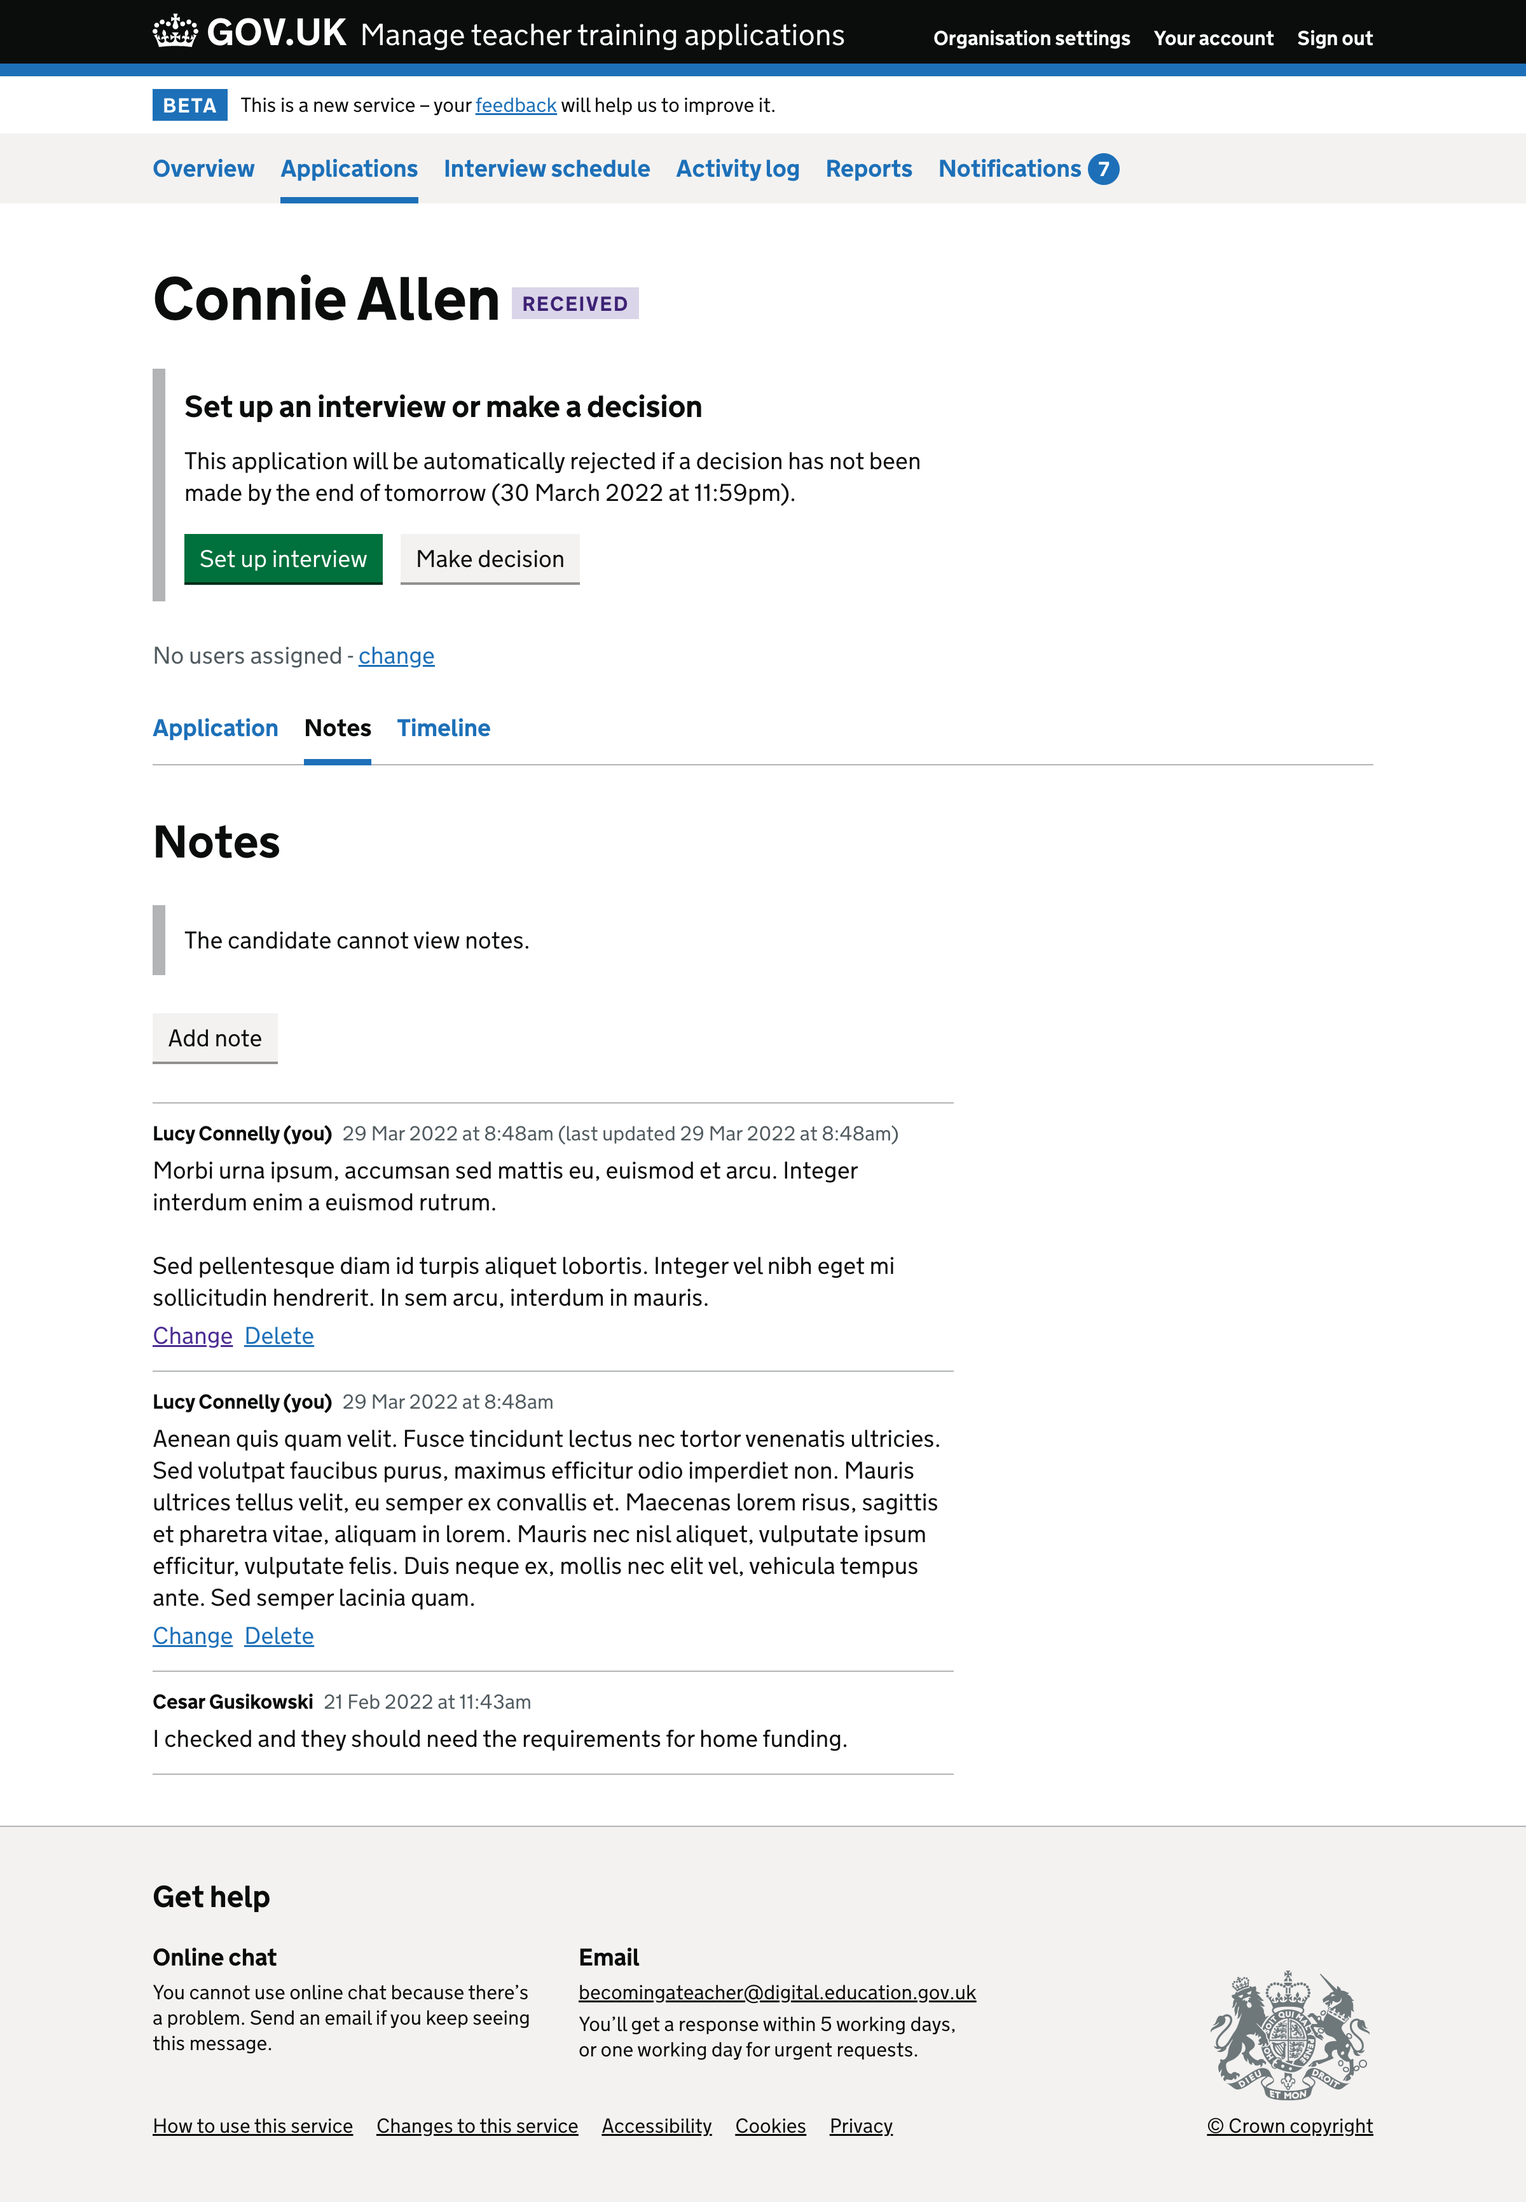
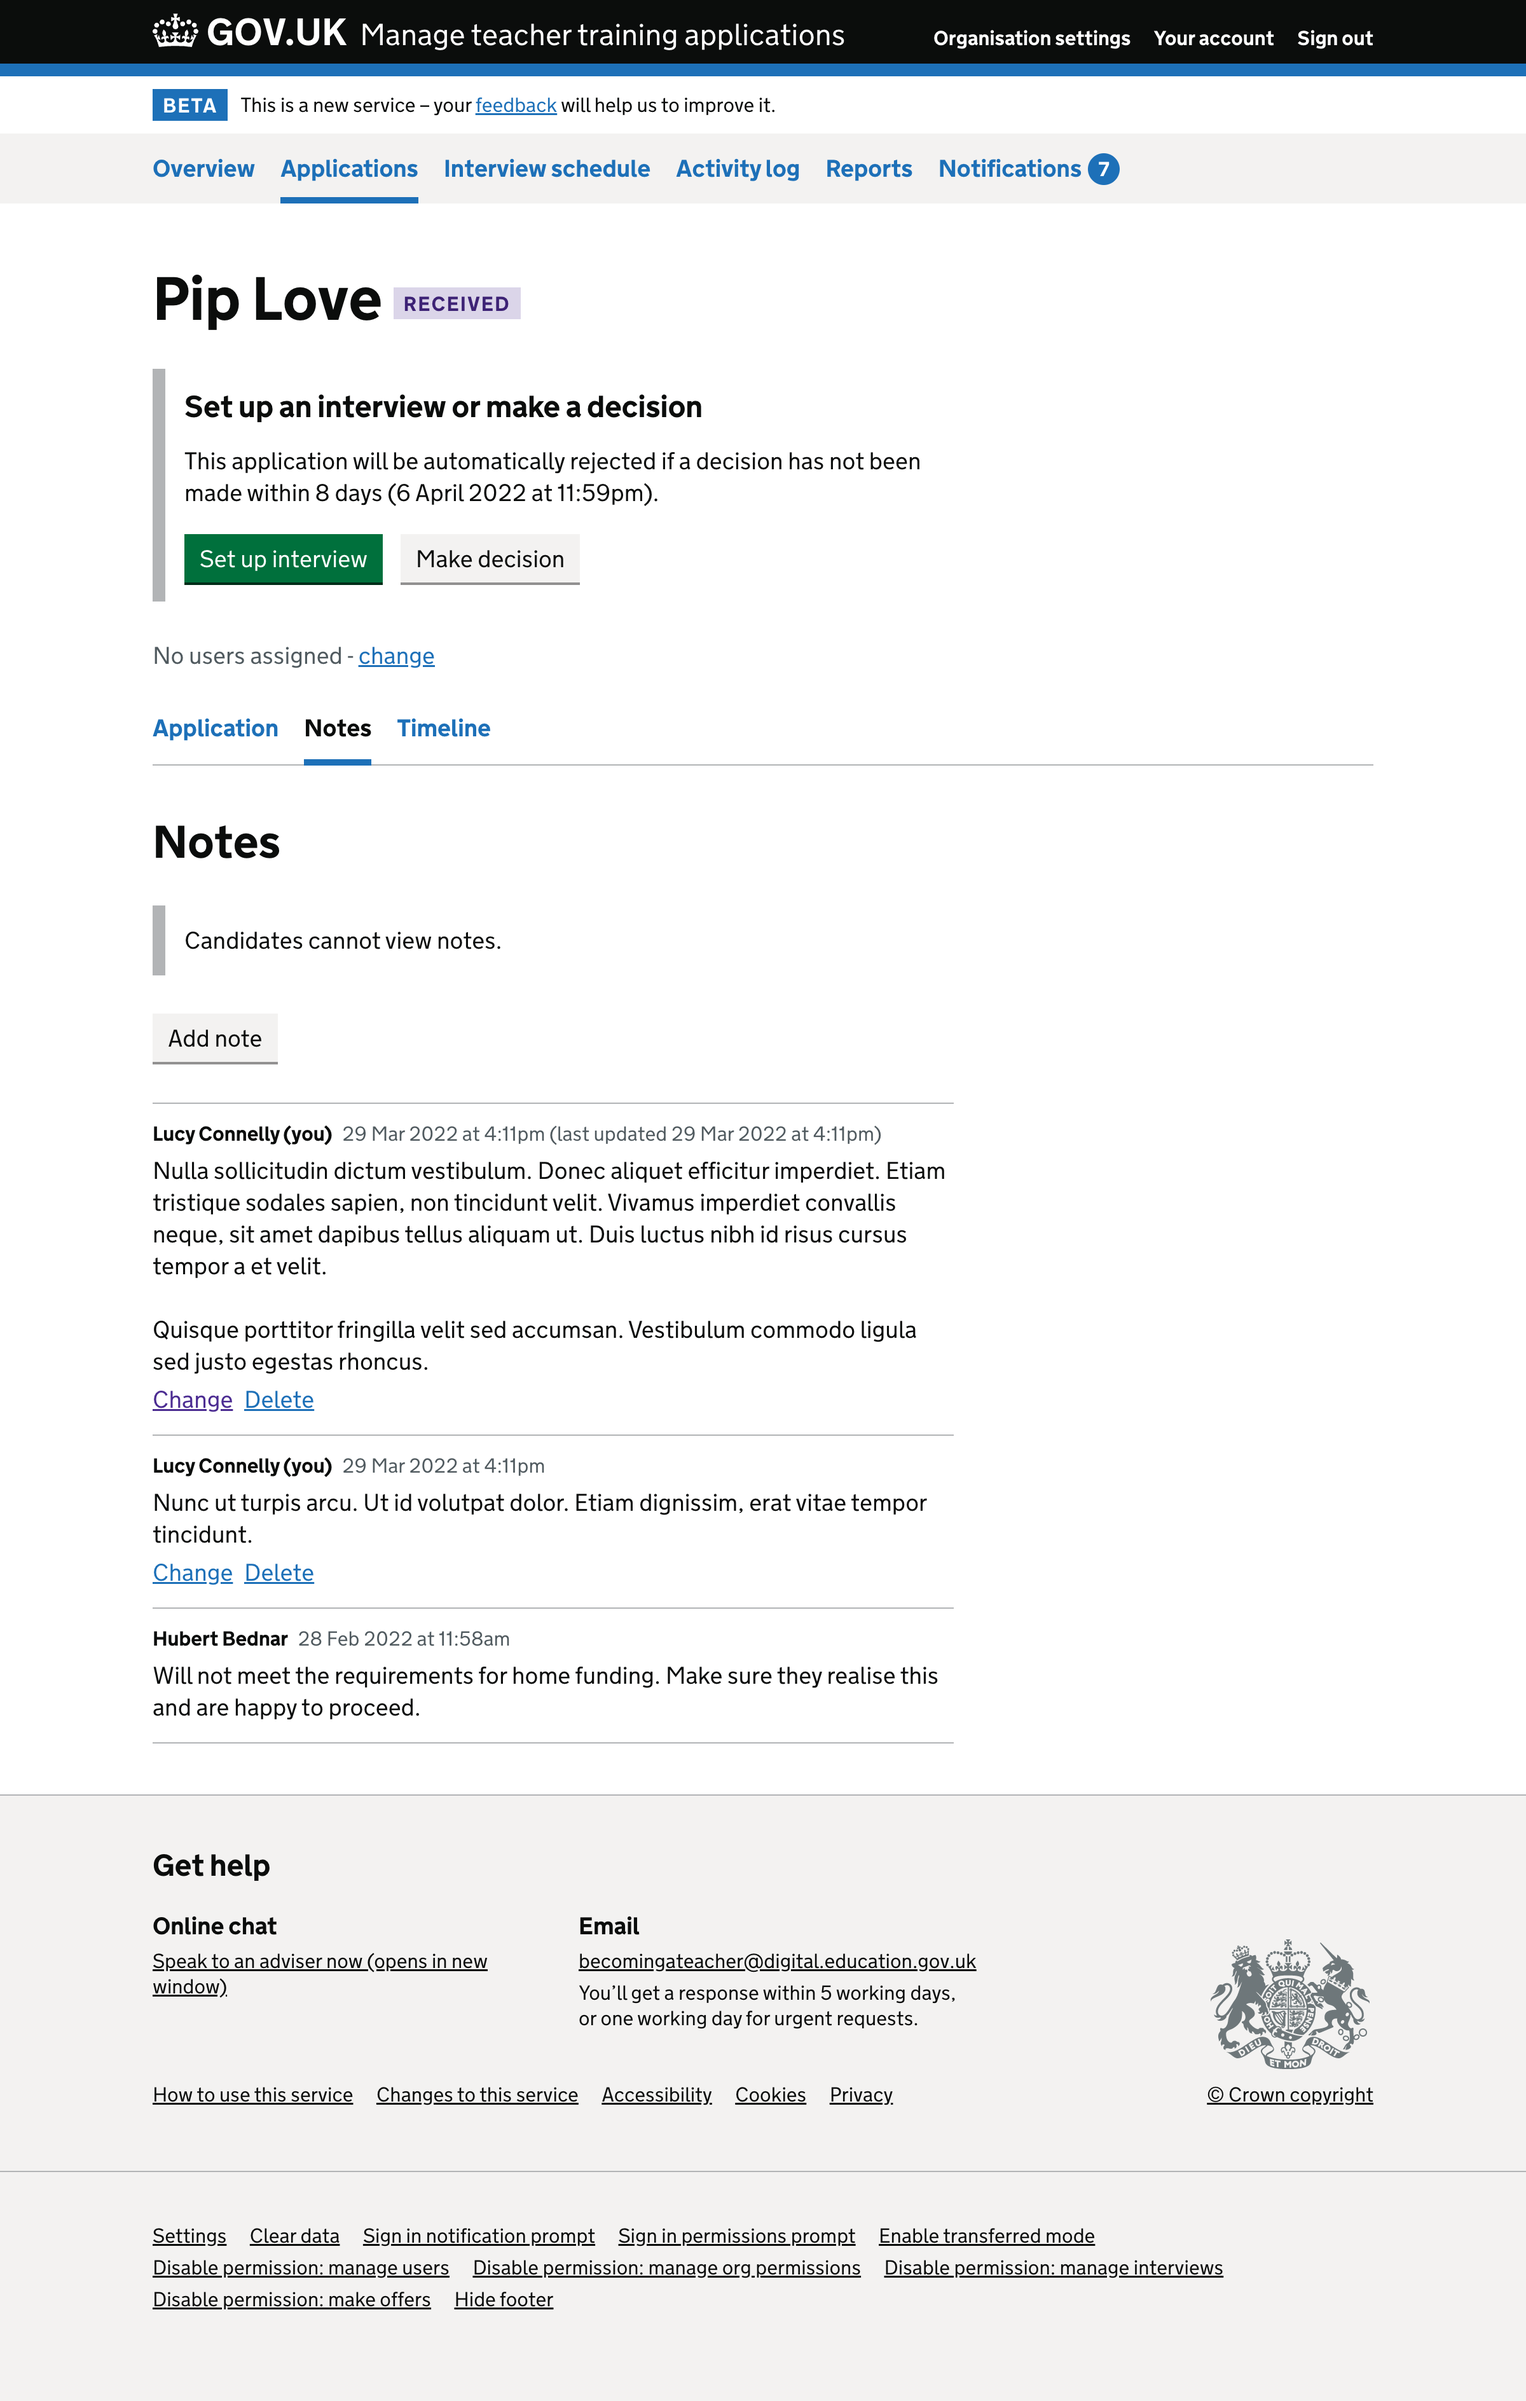
2i

diff --git a/app/posts/manage-teacher-training-applications/2022-03-28-changing-how-notes-are-displayed.md b/app/posts/manage-teacher-training-applications/2022-03-28-changing-how-notes-are-displayed.md
@@ -26,9 +26,9 @@ We decided to order the notes by most recently created, not by most recently upd
 - users can create a new note if it’s important that a comment appears at the top of the page
 - this is a convention in other online services
 
-We removed the pipe character (a vertical line, |) between the change and delete links because it’s unnecessary. We do not use a pipe anywhere else.
+We removed the vertical line between the change and delete links because it’s unnecessary. We do not use a vertical line like this anywhere else.
 
-We put ‘Candidates cannot view notes’ in inset text because we wanted to distinguish it from notes.
+We changed ‘The candidate cannot view notes’ to ‘Candidates cannot view notes’. This makes it clear that no candidates can view notes, rather than this specific candidate. We also put it in inset text to distinguish it from notes.
 
 We decided that only the user who created a note can change or delete it. If the user who created a note has been deleted then the note and the creator should remain visible.
 
